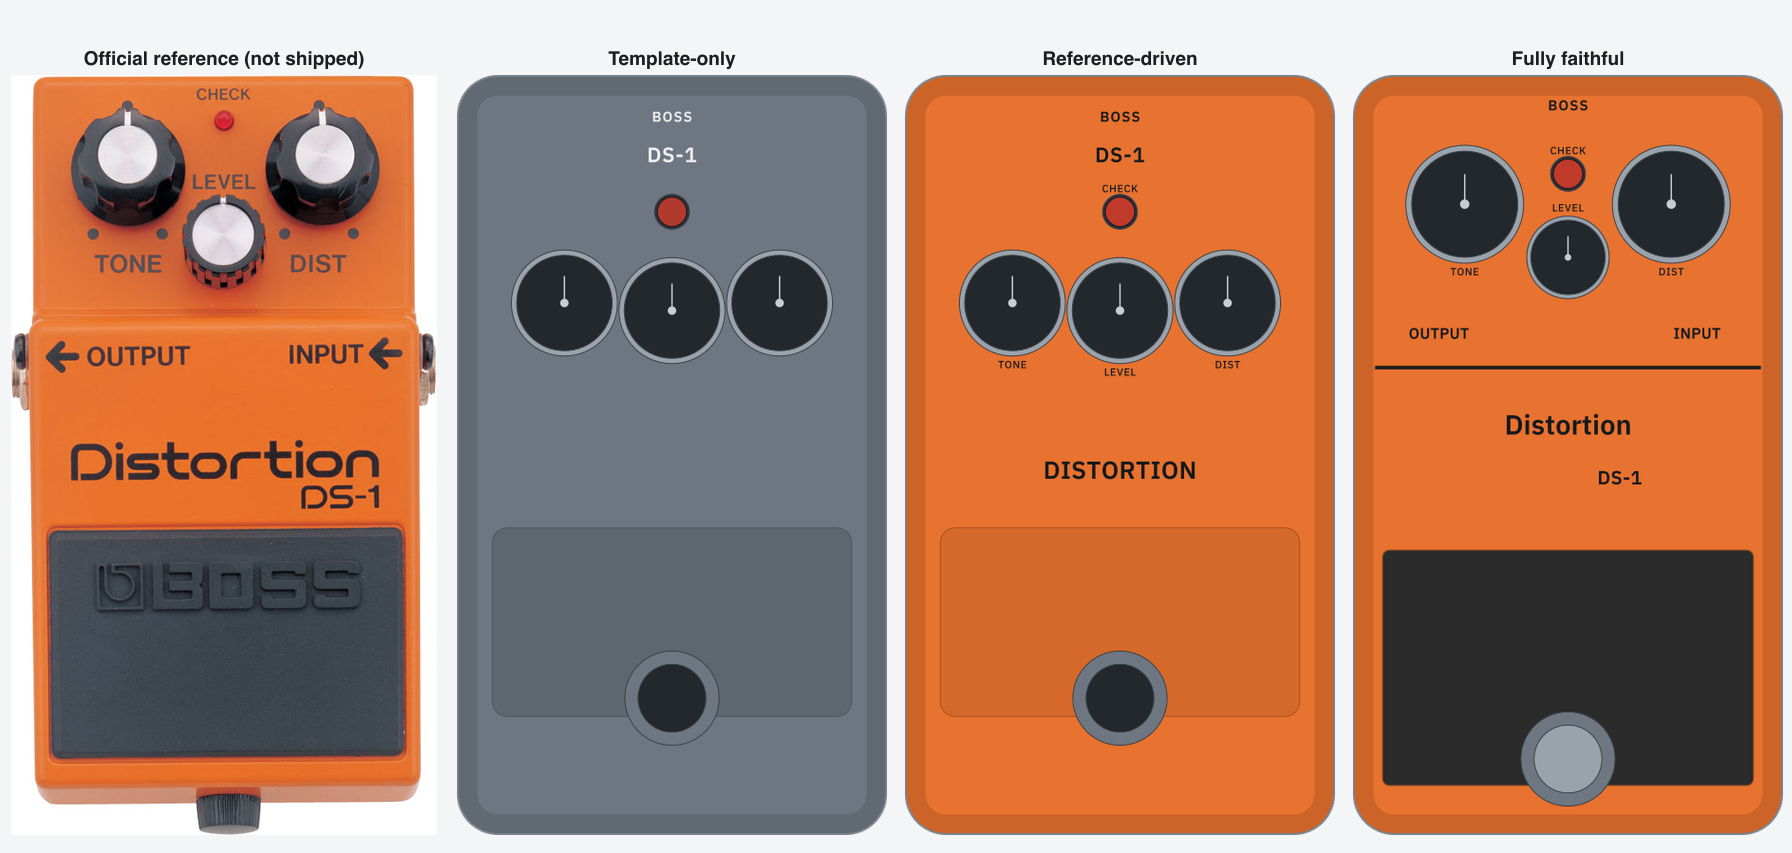
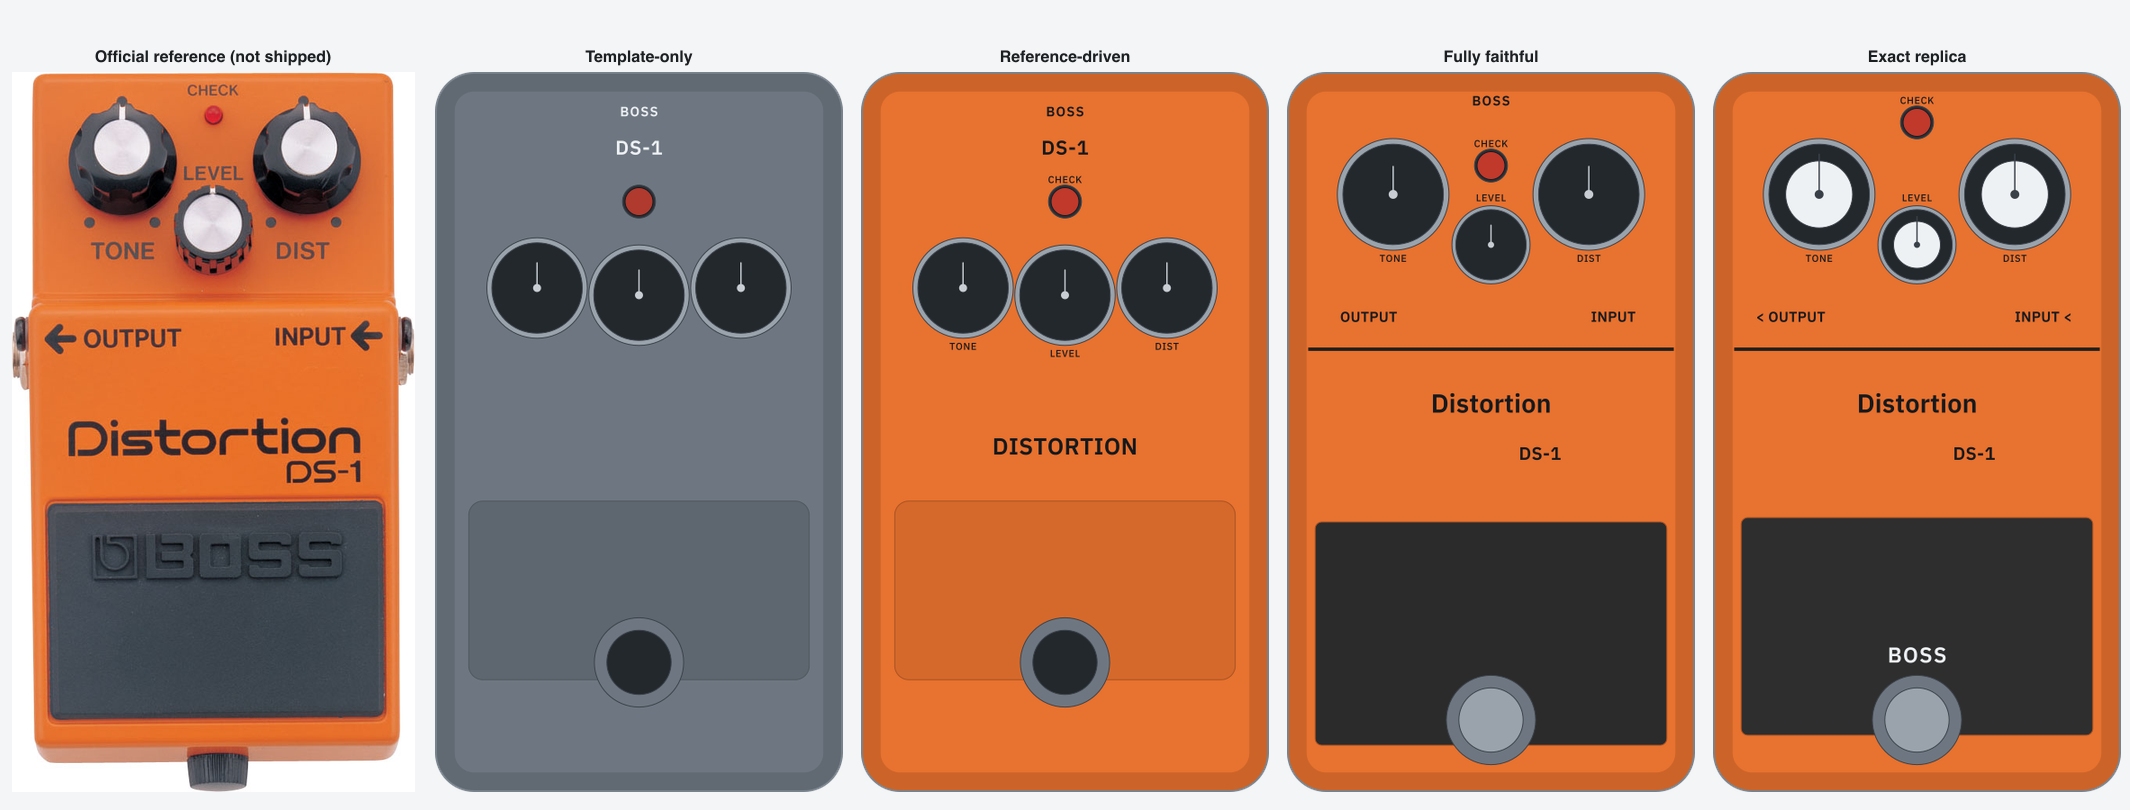
test(pedal-art): add exact-replica DS-1 quality level

diff --git a/tools/asset-pipeline/pedal-art/svg.ts b/tools/asset-pipeline/pedal-art/svg.ts
@@ -236,9 +236,13 @@ function renderControl(
 		case "knob": {
 			const radius = (control.diameterCm * pxPerCm) / 2;
 			const capFill = FINISH_FILL[knobFinish] ?? FINISH_FILL.black;
-			const pointerColor =
-				knobFinish === "black" ? ART_PALETTE.metalHi : ART_PALETTE.hardwareInk;
-			const pointerLength = radius * 0.5;
+			const centerCap = control.cap === "center";
+			const pointerColor = centerCap
+				? ART_PALETTE.hardwareInk
+				: knobFinish === "black"
+					? ART_PALETTE.metalHi
+					: ART_PALETTE.hardwareInk;
+			const pointerLength = radius * (centerCap ? 0.72 : 0.5);
 			const radians = ((control.rotationDeg - 90) * Math.PI) / 180;
 			const pointerX = cx + Math.cos(radians) * pointerLength;
 			const pointerY = cy + Math.sin(radians) * pointerLength;
@@ -260,6 +264,20 @@ function renderControl(
 					ART_PALETTE.hardwareInk,
 					hairline,
 				),
+			);
+			if (centerCap) {
+				parts.push(
+					circle(
+						cx,
+						cy,
+						radius * 0.6,
+						ART_PALETTE.printLight,
+						ART_PALETTE.hardwareInk,
+						hairline,
+					),
+				);
+			}
+			parts.push(
 				`<line x1="${fmt(cx)}" y1="${fmt(cy)}" x2="${fmt(pointerX)}" y2="${fmt(pointerY)}" stroke="${pointerColor}" stroke-width="${fmt(hairline * 1.5)}" stroke-linecap="round"/>`,
 				circle(cx, cy, radius * 0.08, pointerColor),
 			);
@@ -524,8 +542,12 @@ export function buildPedalArtSvg(
 	}
 
 	for (const text of spec.text) {
-		const allowed =
-			text.role === "free" ? inkChoice.meets : inkChoice.largeMeets;
+		const customInk = text.ink !== "auto" ? text.ink : null;
+		const allowed = customInk
+			? true
+			: text.role === "free"
+				? inkChoice.meets
+				: inkChoice.largeMeets;
 		if (!allowed) continue;
 		const rendered = renderTextRun(
 			text.value,
@@ -535,7 +557,7 @@ export function buildPedalArtSvg(
 			text.trackingEm,
 			text.weight,
 			text.case,
-			inkChoice.hex,
+			customInk ?? inkChoice.hex,
 			pxPerCm,
 		);
 		parts.push(rendered.markup);

diff --git a/tools/asset-pipeline/pedal-art/spec.ts b/tools/asset-pipeline/pedal-art/spec.ts
@@ -79,6 +79,8 @@ export const KnobSchema = z
 		diameterCm: z.number().min(0.8).max(4),
 		/** Pointer angle; 0 = up. */
 		rotationDeg: z.number().min(-180).max(360).default(0),
+		/** Optional light centre cap, e.g. the DS-1's white-capped knobs. */
+		cap: z.enum(["none", "center"]).default("none"),
 		...controlBase,
 	})
 	.strict();
@@ -170,6 +172,8 @@ export const PedalArtTextSchema = z
 		case: z.enum(["upper", "title", "as-is"]).default("upper"),
 		trackingEm: z.number().min(-0.05).max(0.2).default(0.02),
 		weight: z.enum(["medium", "semibold"]).default("semibold"),
+		/** Per-text ink override; `auto` follows the body's contrast choice. */
+		ink: z.union([z.literal("auto"), Hex]).default("auto"),
 	})
 	.strict();
 

diff --git a/docs/tasks/pedal-art-quality-test.md b/docs/tasks/pedal-art-quality-test.md
@@ -1,10 +1,10 @@
-# Pedal-art quality test — template vs reference vs faithful
+# Pedal-art quality test — four fidelity levels
 
 **Status:** test / in review · **Date:** 2026-10-29 · **Scope:** visual calibration only
 
 ## Goal
 
-Compare three generated-art fidelity levels on the **same pedal** (BOSS DS-1,
+Compare four generated-art fidelity levels on the **same pedal** (BOSS DS-1,
 7.3 × 12.9 cm) so the owner can decide how much per-item work the catalog art is
 worth before committing to a production plan.
 
@@ -18,6 +18,7 @@ does not run the full catalog pipeline or the full test suite (owner request).
 | **Template-only** | Catalog facts + effect-type heuristics; neutral body colour; no reference image | `tools/asset-pipeline/pedal-art/pilots/quality-test/boss-ds-1-template.json` |
 | **Reference-driven** | Official DS-1 reference for body colour, band, control layout/labels; typeset text | `tools/asset-pipeline/pedal-art/pilots/quality-test/boss-ds-1-reference.json` |
 | **Fully faithful** | Reference-matched colour, knob scale/placement, CHECK lamp, output/input legends, separator line, tread pad | `tools/asset-pipeline/pedal-art/pilots/quality-test/boss-ds-1-faithful.json` |
+| **Exact replica** | Adds per-text ink (light BOSS on the dark pad), centre-capped knobs, arrow-like output/input legends and the closest reference layout the renderer can express | `tools/asset-pipeline/pedal-art/pilots/quality-test/boss-ds-1-exact.json` |
 
 All three use the existing `asset:pedal-art` renderer and the frozen
 “Catalog Specimen” style. Reference pixels are **not shipped**; the official
@@ -29,7 +30,7 @@ reference is included in the comparison sheet only for QA.
   three levels at 800 (full detail).
 - `docs/screenshots/pedal-art-quality-test/comparison-350.png` — the same at
   picker/thumb size.
-- Individual 800 PNGs: `boss-ds-1-{template,reference,faithful}.png`.
+- Individual 800 PNGs: `boss-ds-1-{template,reference,faithful,exact}.png`.
 
 Rendered AVIF sizes (800 / 350):
 
@@ -38,6 +39,7 @@ Rendered AVIF sizes (800 / 350):
 | Template-only | 9,077 B | 3,786 B |
 | Reference-driven | 14,677 B | 5,843 B |
 | Fully faithful | 15,219 B | 6,298 B |
+| Exact replica | 16,680 B | 6,832 B |
 
 ## Observations
 
@@ -48,13 +50,18 @@ Rendered AVIF sizes (800 / 350):
 - **Fully faithful** adds the separator line, OUTPUT/INPUT legends, larger
   corner knobs, smaller center LEVEL knob and the dark tread pad. It is closest
   to the real object while staying a flat, typeset illustration.
+- **Exact replica** adds the white knob caps, light BOSS mark on the tread pad
+  and arrow-like output/input legends. It is the closest flat-art representation
+  we can render today without logos or reference pixels. It still uses typeset
+  text (not the BOSS wordmark), and it required two small optional renderer
+  fields (`text.ink`, `knob.cap`).
 
 ## Decision points
 
 1. **Policy:** keep real-photo-first (generated art fills gaps) or switch to
    “illustrated by default”?
 2. **Fidelity:** template-only (fast, generic), reference-driven (recognizable),
-   or faithful (closest, slowest)?
+   faithful (closest), or exact replica (closest flat-art ceiling, slowest)?
 3. **Scope:** Tier A launch catalog (~1,850 pedals + 150 boards) or the full
    inventory (8,549)?
 4. **Jacks/power:** accept disclosed assumed fallbacks, or require research per
